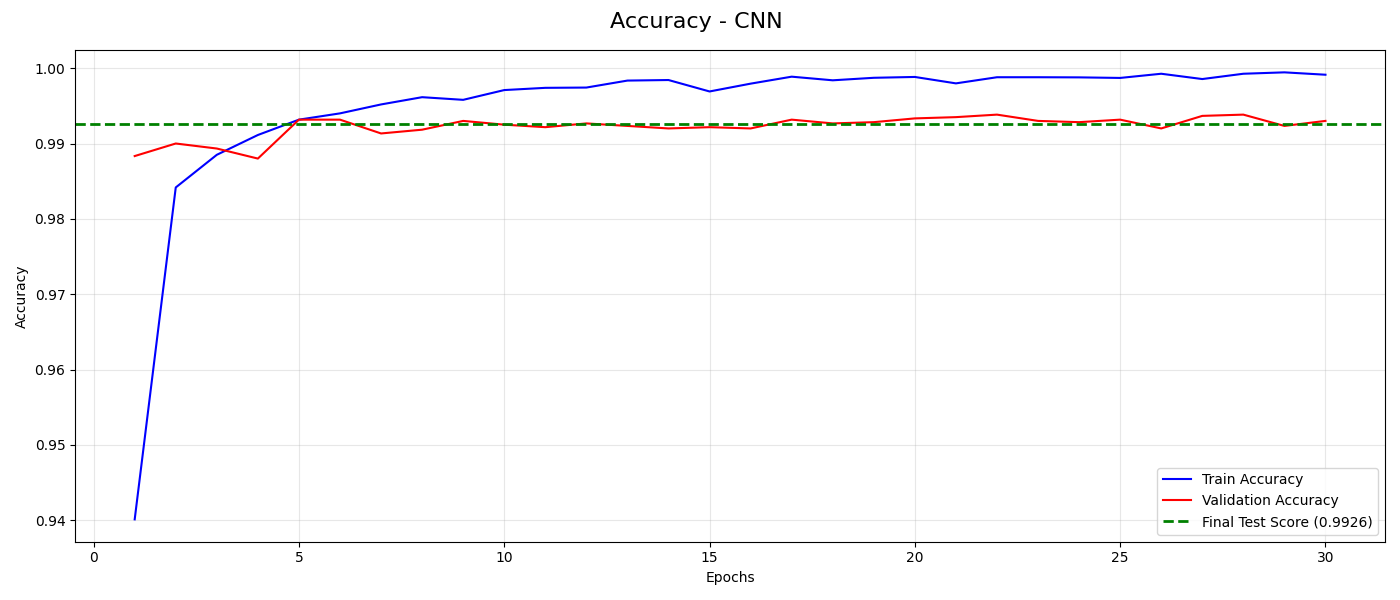
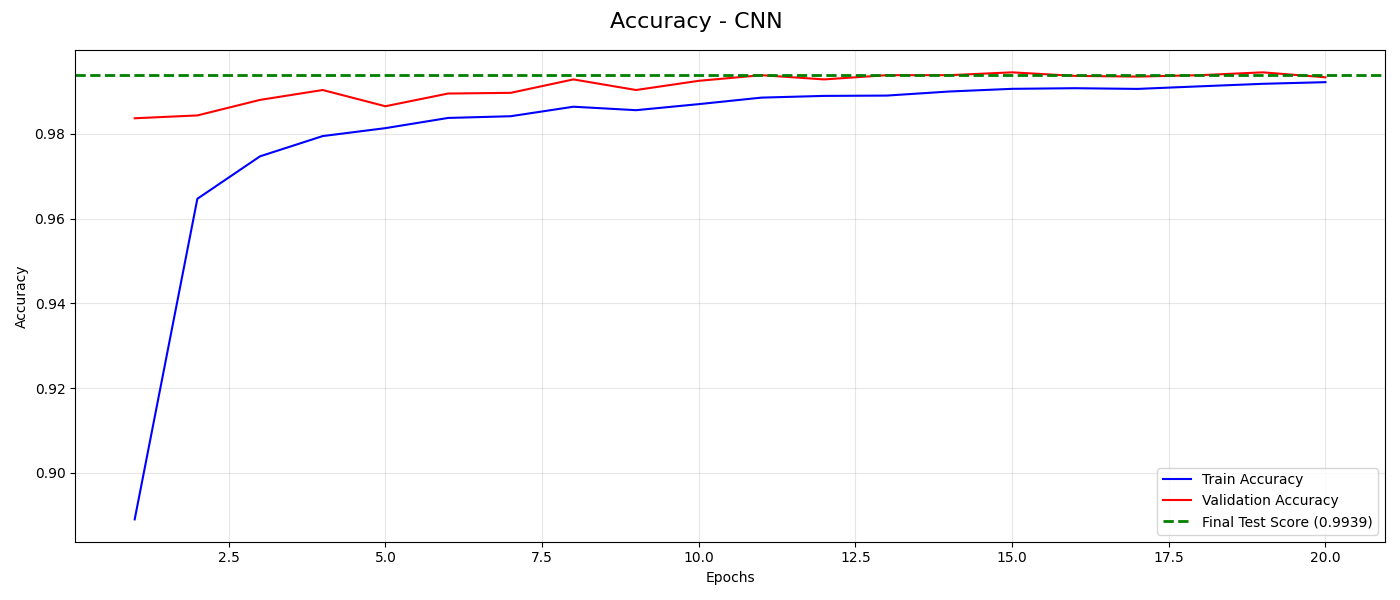
Final CNN with Data Augmentation

diff --git a/src/CNN.py b/src/CNN.py
@@ -3,6 +3,7 @@ from tensorflow import keras
 from keras.datasets import mnist
 from keras.models import Sequential
 from keras.layers import Conv2D, MaxPooling2D, Flatten, Dense, Dropout
+from tensorflow.keras.preprocessing.image import ImageDataGenerator
 from sklearn.model_selection import train_test_split
 from src.utils import plot_accuracy, plot_loss
 
@@ -76,7 +77,6 @@ def model_tuner(X_train, y_train, X_val, y_val, epochs):
 
     best_hps = tuner.get_best_hyperparameters(num_trials=1)[0]
 
-    print("\n===== Best Hyperparameters Found =====")
     print(f"Filters Layer 1: {best_hps.get('filters_1')}")
 
     if best_hps.get("use_second_layer"):
@@ -106,20 +106,40 @@ def cnn_network():
     (X_train, y_train), (X_test, y_test) = mnist.load_data()
 
     # Process data
-    X_train = data_processing(X_train)
+    X_train_full = data_processing(X_train)
     X_test = data_processing(X_test)
 
-    X_train_hp, X_val_hp, y_train_hp, y_val_hp = train_test_split(
-        X_train, y_train, test_size=0.2, random_state=42, stratify=y_train
+    X_train, X_val, y_train, y_val = train_test_split(
+        X_train_full, y_train, test_size=0.1, random_state=30, stratify=y_train
     )
+
+    print("\n========= Data Information =========")
+    print(f"Training Samples: {len(X_train)}")
+    print(f"Validation Samples: {len(X_val)}")
+    print(f"Test Samples: {len(X_test)}")
 
     # Tune Hyperparameters
     print("\n========= Hyperparameter Tuning =========")
-    cnn = model_tuner(X_train=X_train_hp, y_train=y_train_hp, X_val=X_val_hp, y_val=y_val_hp, epochs=5)
+    cnn = model_tuner(X_train=X_train, y_train=y_train, X_val=X_val, y_val=y_val, epochs=10)
 
     # Model Trainig
     print("\n========= Training Best Model =========")
-    history = cnn.fit(X_train, y_train, epochs=EPOCHS, batch_size=BATCH_SIZE, validation_split=0.1, verbose=1)
+
+    data_augmentation = ImageDataGenerator(
+        rotation_range=10, width_shift_range=0.1, height_shift_range=0.1, zoom_range=0.1
+    )
+
+    train_data_gen = data_augmentation.flow(X_train, y_train, batch_size=BATCH_SIZE)
+
+    history = cnn.fit(
+        train_data_gen,
+        epochs=EPOCHS,
+        batch_size=BATCH_SIZE,
+        # steps_per_epoch=len(X_train) // EPOCHS,
+        validation_data=(X_val, y_val),
+        callbacks=[keras.callbacks.EarlyStopping(patience=5, restore_best_weights=True)],
+        verbose=1,
+    )
 
     # Model Evaluation
     print("\n========= Best MLP Performance =========")
@@ -137,11 +157,18 @@ def cnn_network():
         history.history["accuracy"],
         history.history["val_accuracy"],
         test_acc,
-        EPOCHS,
+        len(history.history["accuracy"]),
         "Accuracy - CNN ",
         "cnn_accuracy",
     )
-    plot_loss(history.history["loss"], history.history["val_loss"], test_loss, EPOCHS, "Loss - CNN", "cnn_loss")
+    plot_loss(
+        history.history["loss"],
+        history.history["val_loss"],
+        test_loss,
+        len(history.history["loss"]),
+        "Loss - CNN",
+        "cnn_loss",
+    )
 
     # Save model
     cnn.save("models/cnn.h5")
